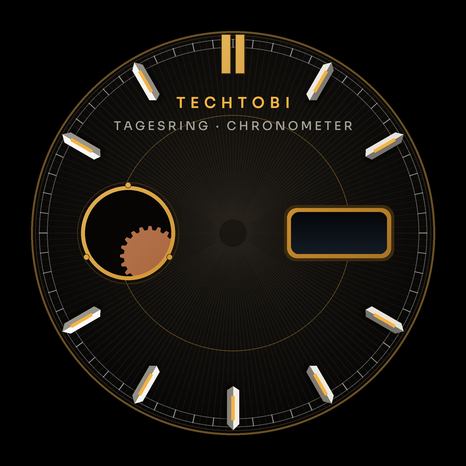
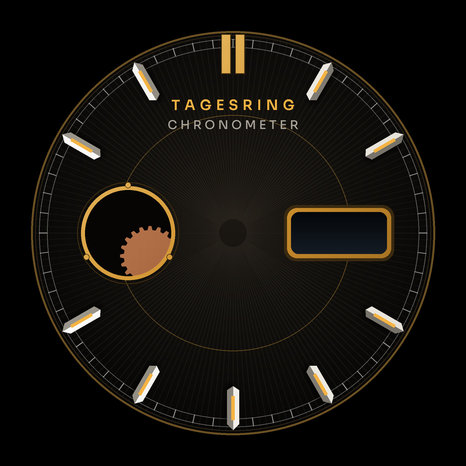
TechTobi clock: no maker's name, TAGESRING over CHRONOMETER
The dial drops the TECHTOBI line and sets its title on two lines instead of
one, at the owner's request.

Changed region(s): [[0.2403, 0.2103, 0.7511, 0.3004]]

diff --git a/tools/theme_techtobi.py b/tools/theme_techtobi.py
@@ -223,8 +223,9 @@ def plate():
     dimg.paste(dg.resize((96 * SS, 42 * SS), Image.BILINEAR), (291 * SS, 212 * SS))
     fill(big, lambda d: d.rounded_rectangle([P(291, 212), P(387, 254)], radius=8 * SS, fill=255), dimg)
 
-    text_spaced(big, "TECHTOBI", C, 108, 15, 600, LUME, 5)
-    text_spaced(big, "TAGESRING · CHRONOMETER", C, 130, 12, 500, (0xA8, 0xA3, 0x99), 2.5)
+    # Two lines, no maker's name (owner, 2026-10-02): the dial says what it is, not whose.
+    text_spaced(big, "TAGESRING", C, 110, 14, 600, LUME, 4.5)
+    text_spaced(big, "CHRONOMETER", C, 129, 12, 500, (0xA8, 0xA3, 0x99), 3)
 
     return big.resize((W, W), Image.LANCZOS).convert("RGBA")
 
